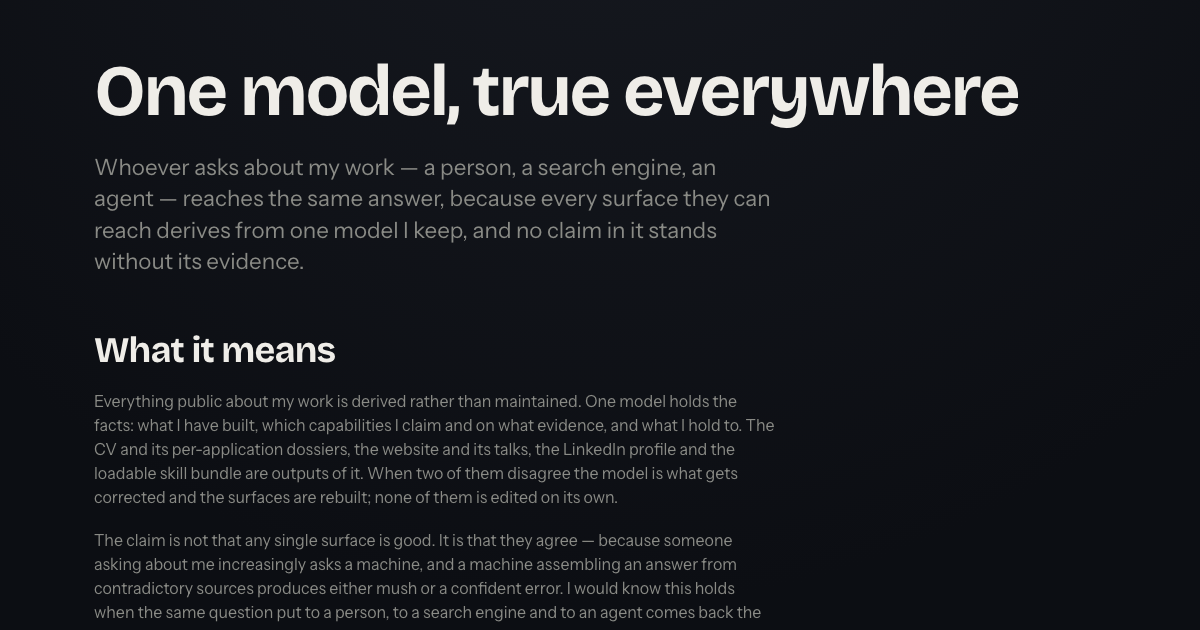
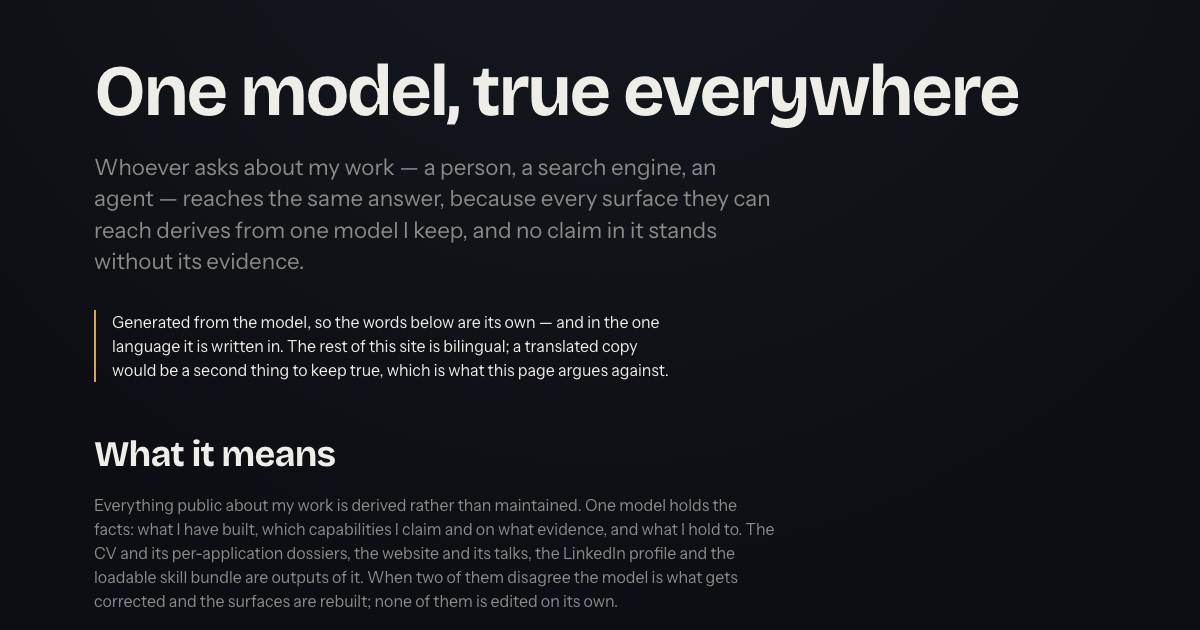
Say why these blocks do not switch language
The page is bilingual and the blocks inside it are not, which a reader
notices and would otherwise read as an oversight. It is not one: the
words come from the model, the model is written in one language, and a
translated copy would be a second thing to keep true — which is the
argument the page makes.

Written the way the billing pages state what is not ready yet: a note
under the tagline, in the site's own voice, saying the awkward thing
plainly rather than leaving it to be discovered.

The note lives in the builder rather than the page. The builder already
owns the connective words — the heading over the values — and the model
owns the statements; this belongs on the frame, not in the model, because
it is about the page rather than about the work.

Changed region(s): [[0.0617, 0.6333, 0.6475, 0.9952], [0.0617, 0.4825, 0.555, 0.6032]]

diff --git a/principles/index.html b/principles/index.html
@@ -245,6 +245,7 @@
     <div class="title">
       <h1>One model, true everywhere</h1>
       <p class="tagline">Whoever asks about my work — a person, a search engine, an agent — reaches the same answer, because every surface they can reach derives from one model I keep, and no claim in it stands without its evidence.</p>
+      <p class="note" data-de="Aus dem Modell erzeugt: Die Worte unten sind seine eigenen — und in der einen Sprache, in der es geschrieben ist. Der Rest dieser Seite ist zweisprachig; eine übersetzte Zweitfassung wäre eine zweite Sache, die wahr bleiben muss — genau das, wogegen diese Seite argumentiert.">Generated from the model, so the words below are its own — and in the one language it is written in. The rest of this site is bilingual; a translated copy would be a second thing to keep true, which is what this page argues against.</p>
     </div>
 
     <section>
